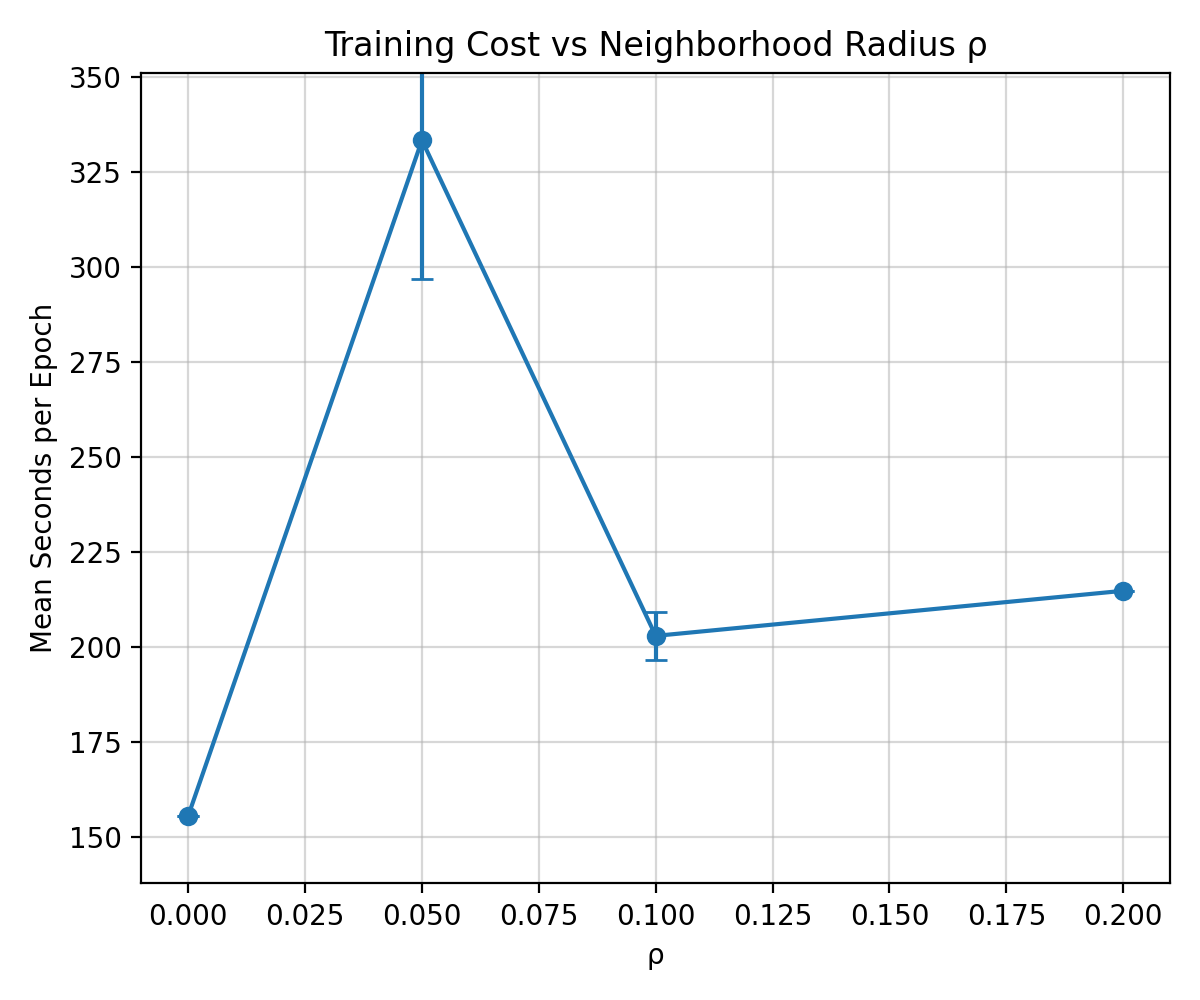
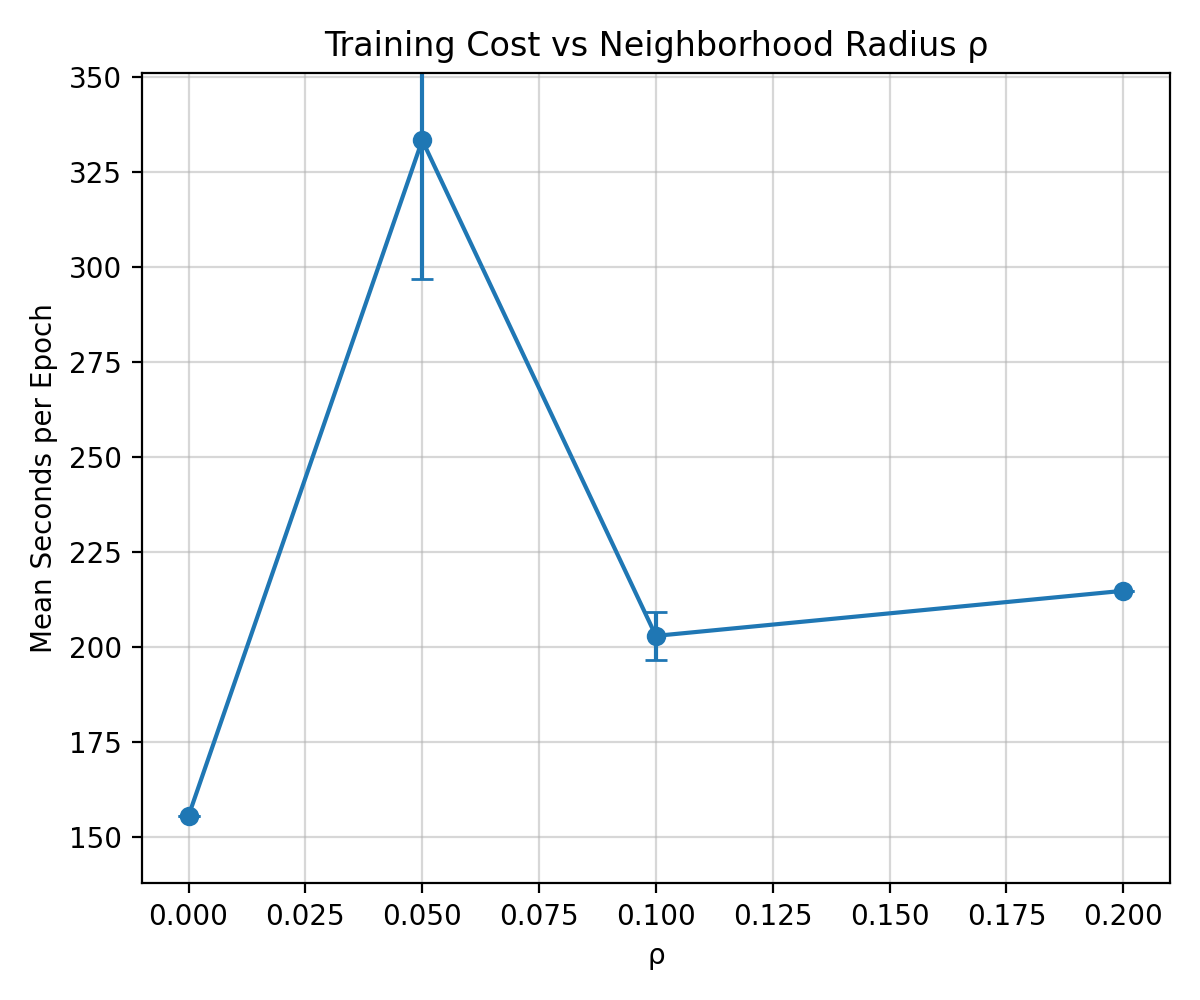
Updated README

diff --git a/README.md b/README.md
@@ -1,1 +1,190 @@
-# empirical-analysis-of-sharpness-aware-minimization
+# Empirical Analysis of Sharpness-Aware Minimization: Effect of Neighborhood Radius ρ
+
+This repository contains code and experiments for a controlled empirical study on **Sharpness-Aware Minimization (SAM)**. The goal is to understand how the **neighborhood radius ρ** affects generalization and loss landscape geometry when training ResNet-18 on CIFAR-100.
+
+---
+
+## Overview
+
+Sharpness-Aware Minimization minimizes the **worst-case loss** within a neighborhood of the current model parameters. The radius ρ controls how large that neighborhood is:
+
+- ρ = 0.00 → equivalent to standard SGD  
+- small ρ → encourages flatter minima and improved generalization  
+- large ρ → over-regularization and reduced performance  
+
+We perform a sweep over:
+
+```
+ρ ∈ {0.00, 0.01, 0.05, 0.10, 0.20}
+```
+
+All other training settings are held constant.
+
+We report:
+
+- CIFAR-100 accuracy vs ρ  
+- Training time vs ρ  
+- Learning curves  
+- Loss landscapes  
+
+---
+
+## Repository Structure
+
+```
+.
+├── checkpoint/                 # Best model checkpoints
+├── data/                       # CIFAR-100 dataset cache
+├── logs/                       # CSV logs per epoch
+├── plots/                      # Generated figures
+│   ├── Accuracy & loss comparison.png
+│   ├── rho_vs_accuracy.png
+│   ├── rho_vs_time.png
+│   ├── sam_rho005_curves.png
+│   └── loss_landscape_*.png
+├── runs/                       # Run outputs organized by ρ and seed
+│   ├── baseline_sgd/
+│   ├── rho_0.05/
+│   ├── rho_0.10/
+│   └── rho_0.20/
+│       ├── seed_1/
+│       └── seed_42/
+├── dataset.py
+├── experiments.py
+├── model.py
+├── plot_results.py
+├── sam_optimizer.py
+├── train_baseline.py
+└── train_sam.py
+```
+
+---
+
+## Installation
+
+### Requirements
+
+- Python ≥ 3.9  
+- PyTorch ≥ 2.0  
+- Torchvision ≥ 0.15  
+
+Install dependencies:
+
+```bash
+pip install -r requirements.txt
+```
+
+If a requirements file is not provided:
+
+```bash
+pip install torch torchvision matplotlib numpy
+```
+
+> The code supports Apple Silicon via the MPS backend in PyTorch.
+
+---
+
+## Training
+
+### Baseline (SGD)
+
+Train ResNet-18 with standard SGD (ρ = 0):
+
+```bash
+python train_baseline.py
+```
+
+Outputs:
+
+- logs/baseline_sgd/
+- checkpoint/baseline_sgd/
+- runs/baseline_sgd/
+
+---
+
+### SAM Experiments (ρ-sweep)
+
+Train with SAM over multiple ρ values:
+
+```bash
+python train_sam.py
+```
+
+This script:
+
+- sweeps ρ over {0.00, 0.01, 0.05, 0.10, 0.20}
+- runs two seeds per configuration
+- logs metrics to CSV
+- saves best checkpoints
+- organizes runs by ρ and seed
+
+Adjust seeds, epochs, and hyperparameters in experiments.py.
+
+---
+
+## Results and Plots
+
+Generate plots after training:
+
+```bash
+python plot_results.py
+```
+
+Key plots:
+
+- rho_vs_accuracy.png
+- rho_vs_time.png
+- sam_rho005_curves.png
+- loss_landscape_*.png
+
+---
+
+## Key Findings
+
+- ρ ≈ 0.05 gives the best performance, improving test accuracy by ~1.2% over SGD.
+- The relationship between ρ and accuracy is inverted-U shaped.
+- SAM training is ~2× slower than SGD due to an extra forward/backward pass.
+- Loss landscapes for ρ ∈ [0.05, 0.10] appear wider and flatter than SGD.
+
+---
+
+## Limitations
+
+- Only 100 epochs (not 200) due to runtime constraints.  
+- Only two seeds per configuration due to compute limits.  
+- No CIFAR-100-C robustness evaluation included.  
+- Designed as a research experiment, not a production model.
+
+---
+
+## Reproducibility
+
+- Logs include: epoch, train loss, train acc, test loss, test acc, epoch time.
+- Best checkpoints saved by test accuracy.
+- Random seeds set for Python, NumPy, and PyTorch.
+- Identical hyperparameters across all runs except ρ.
+
+---
+
+## Citation
+
+If referencing SAM, cite:
+
+```
+@inproceedings{foret2021sam,
+  title={Sharpness-Aware Minimization for Efficiently Improving Generalization},
+  author={Foret, Pierre and Kleiner, Ariel and Mobahi, Hossein and Neyshabur, Behnam},
+  booktitle={International Conference on Learning Representations (ICLR)},
+  year={2021}
+}
+```
+
+---
+
+## Acknowledgements
+
+- SAM: Foret et al., ICLR 2021  
+- Dataset: CIFAR-100  
+- Backbone: ResNet-18  
+
+This project was completed for EE641 — Deep Learning Systems.
